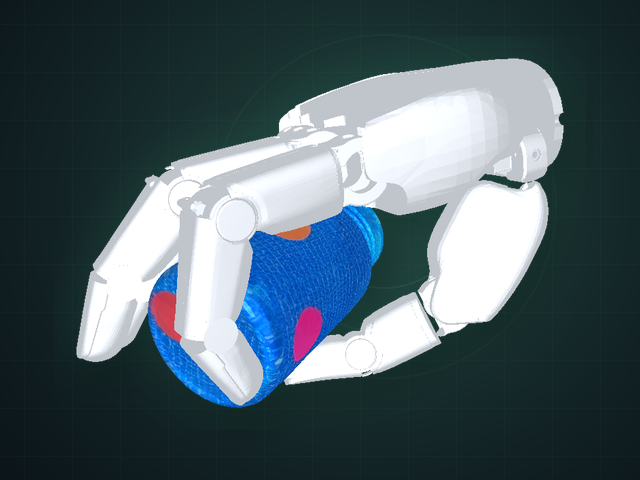
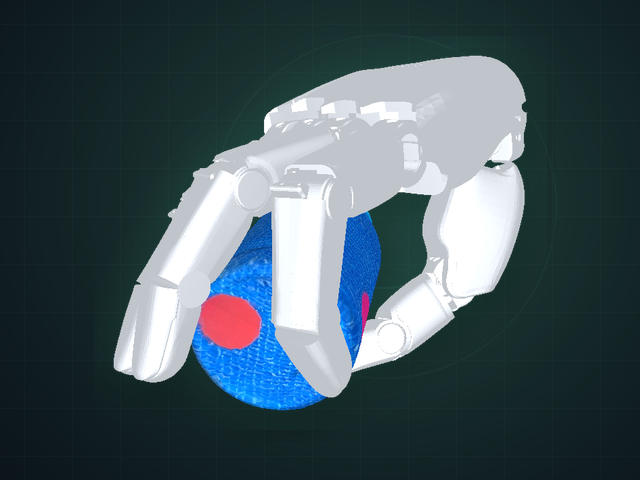
Rotate medicine bottle target camera toward viewer by 20 degrees

Changed region(s): [[0.0938, 0.0938, 0.9062, 0.875]]

diff --git a/index.html b/index.html
@@ -108,7 +108,7 @@
             <div class="deck-stage">
               <div class="video-frame">
                 <span class="deck-status">Seen object</span><video controls muted autoplay playsinline preload="metadata" poster="./static/video-posters/media18.jpg?v=uniform-2" aria-label="Medicine bottle configuration transfer"><source type="video/mp4"></video>
-                <figure class="stage-goal-ghost any2any-goal-ghost" aria-label="Final hand–object configuration target"><img src="./static/any2any-final-grasps/medicine-bottle-s1.png?v=native-any2any-camera-1" alt="Palm-down Sharpa target hand–object configuration with the scanned medicine bottle"><figcaption><span>TARGET</span><strong>Palm down · fingers forward</strong><small>Sharpa + scan · traj19</small></figcaption></figure>
+                <figure class="stage-goal-ghost any2any-goal-ghost" aria-label="Final hand–object configuration target"><img src="./static/any2any-final-grasps/medicine-bottle-s1.png?v=medicine-front-20deg-1" alt="Palm-down Sharpa target hand–object configuration with the scanned medicine bottle"><figcaption><span>TARGET</span><strong>Palm down · fingers forward</strong><small>Sharpa + scan · traj19</small></figcaption></figure>
               </div>
               <div class="deck-caption deck-caption--compact"><div class="deck-caption-heading"><div class="deck-title"><h4>Medicine bottle</h4><span class="deck-kicker">Seen object</span><span class="object-success-rate">Success rate: 90% (18/20)</span></div></div></div>
             </div>
